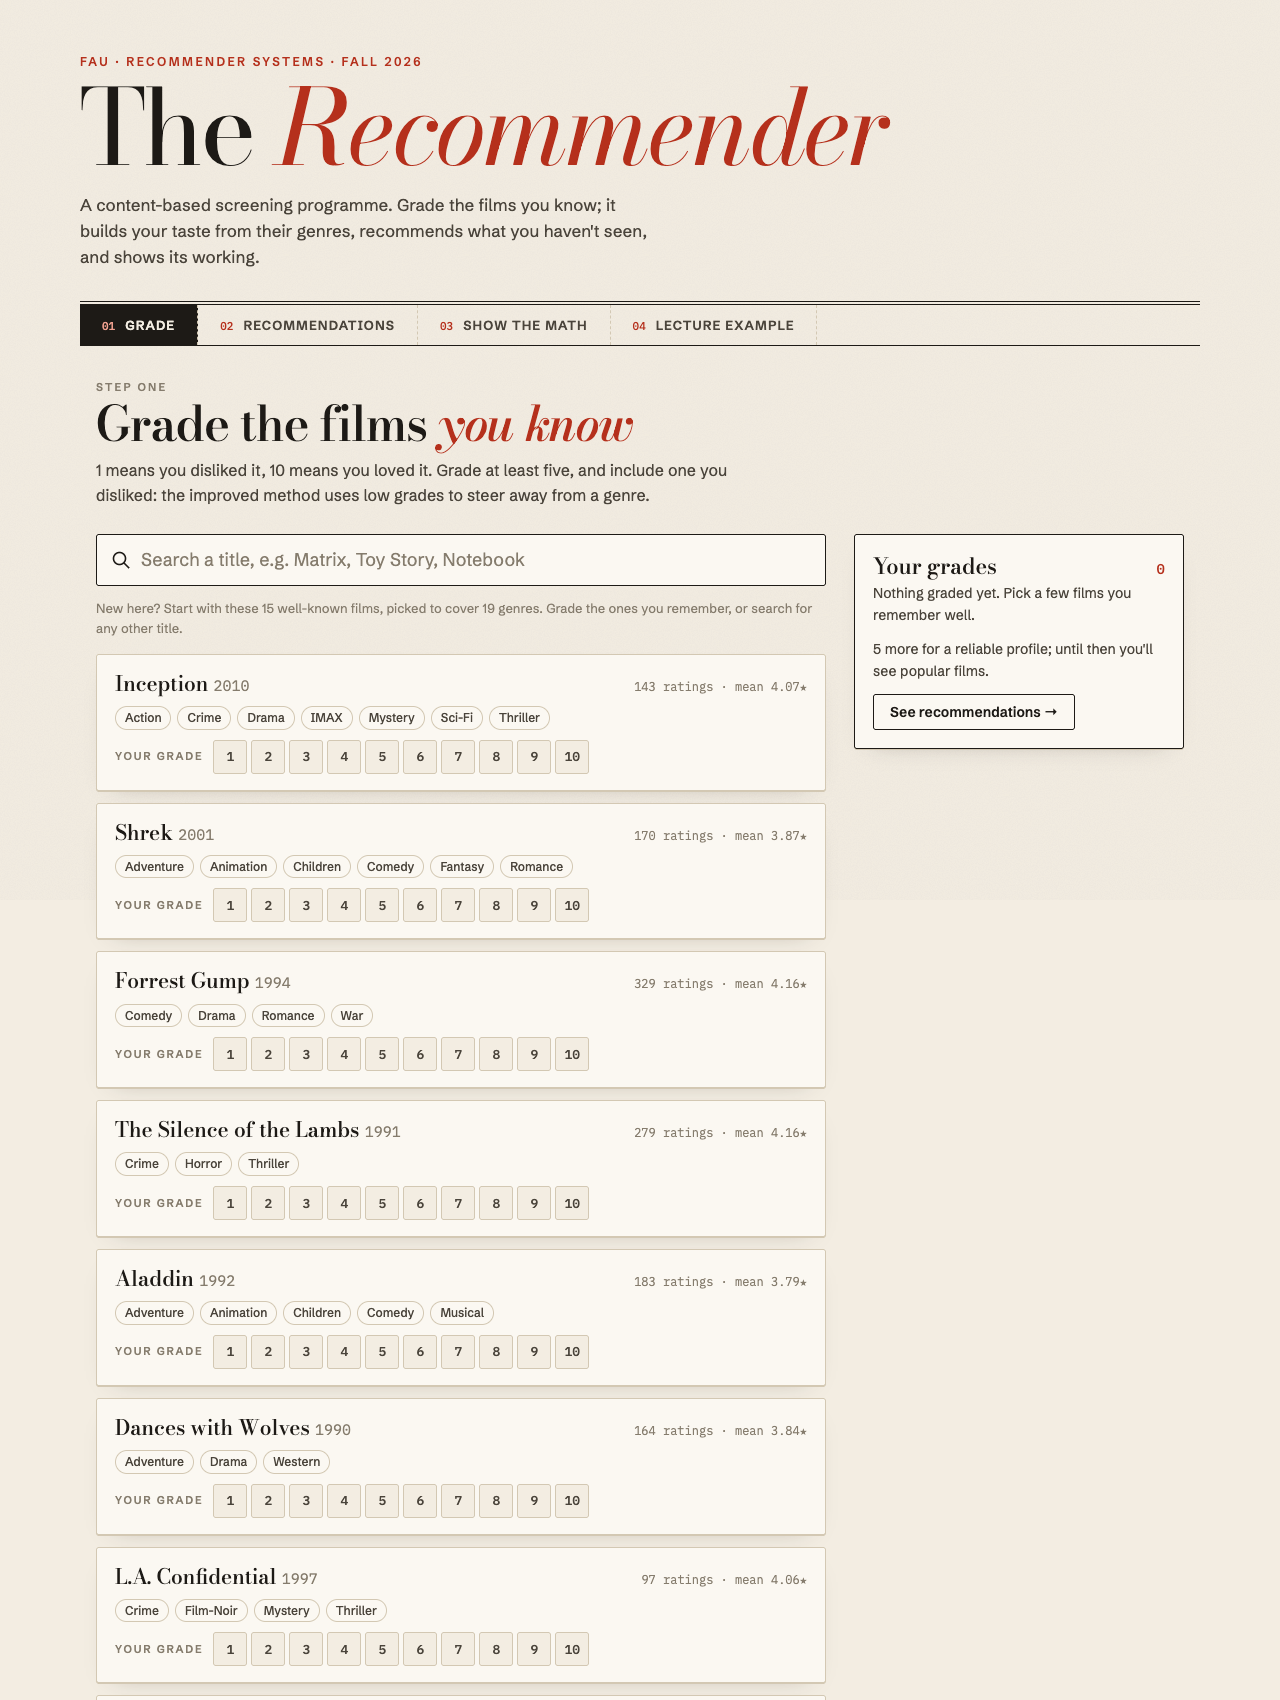
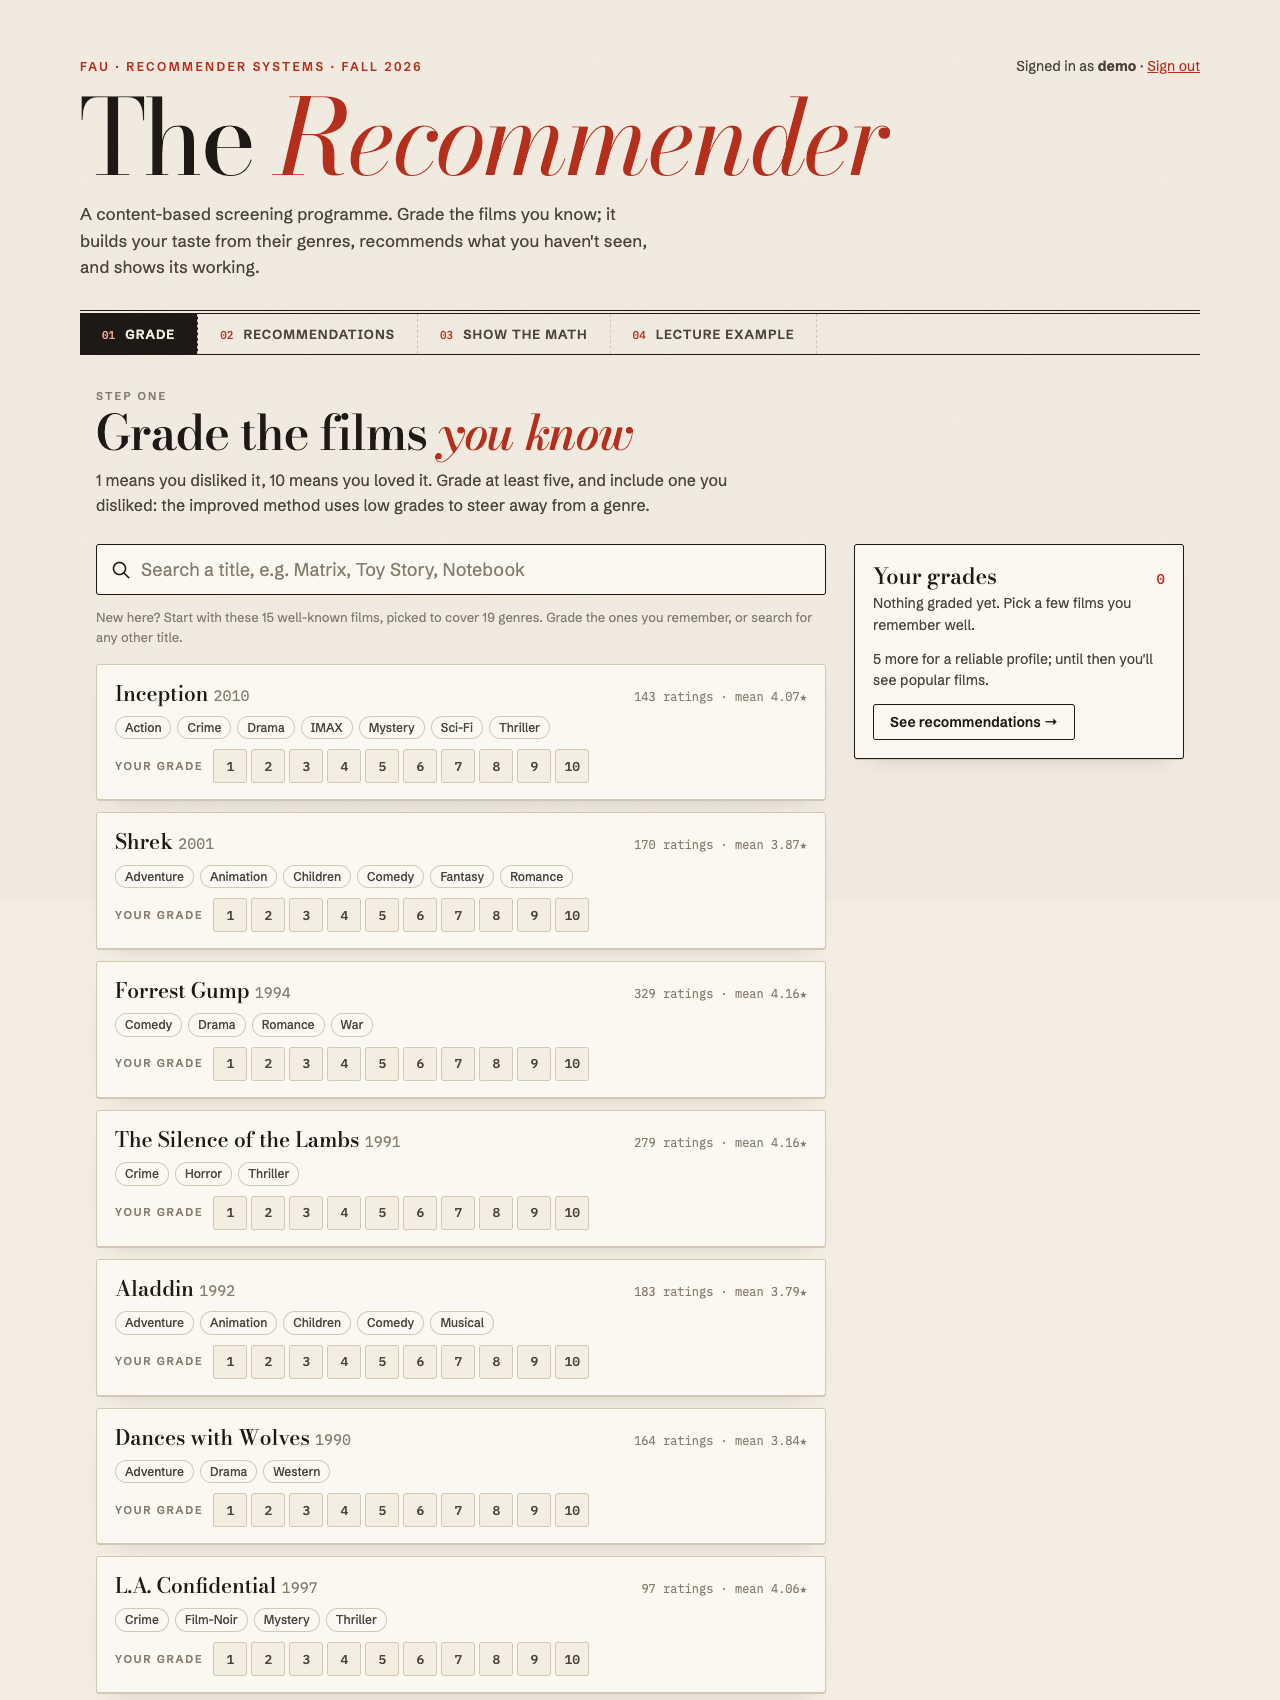
Add sign-in, registration and sign-out to the UI
login.html for signing in or creating an account, the signed-in user
and a sign-out link in the header, and a sign-in prompt in the personal
views (the lecture example stays public). The e2e script signs in
through the form (30 checks).

diff --git a/src/main/resources/static/login.html b/src/main/resources/static/login.html
@@ -1,0 +1,63 @@
+<!doctype html>
+<html lang="en">
+<head>
+	<meta charset="utf-8">
+	<meta name="viewport" content="width=device-width, initial-scale=1">
+	<title>Sign in · The Recommender</title>
+	<meta name="description" content="Sign in or create an account to keep your own grades and recommendations.">
+	<link rel="preconnect" href="https://fonts.googleapis.com">
+	<link rel="preconnect" href="https://fonts.gstatic.com" crossorigin>
+	<link rel="stylesheet" href="https://fonts.googleapis.com/css2?family=Bodoni+Moda:ital,opsz,wght@0,6..96,400..800;1,6..96,400..800&family=IBM+Plex+Mono:wght@400;500&family=Schibsted+Grotesk:wght@400;500;600;700&display=swap">
+	<link rel="stylesheet" href="css/app.css">
+	<script type="module" src="js/login.js"></script>
+</head>
+<body>
+	<header class="masthead masthead--compact">
+		<div class="masthead__inner">
+			<p class="masthead__kicker">FAU · Recommender Systems · Fall 2026</p>
+			<h1 class="masthead__title"><a href="/">The <em>Recommender</em></a></h1>
+		</div>
+	</header>
+
+	<main class="view" id="view">
+		<section class="view-head">
+			<p class="eyebrow">Your seat</p>
+			<h2 class="view-title">Sign in to keep <em>your grades</em></h2>
+			<p class="lede">Grades and recommendations are personal, so they need an account; creating one takes a few
+				seconds. The lecture example works without one.</p>
+		</section>
+
+		<div class="auth">
+			<form class="auth__card" id="sign-in" novalidate>
+				<h3 class="auth__title">Sign in</h3>
+				<label class="field"><span class="field__label">Username</span>
+					<input class="input" name="username" autocomplete="username" required></label>
+				<label class="field"><span class="field__label">Password</span>
+					<input class="input" name="password" type="password" autocomplete="current-password" required></label>
+				<p class="auth__error" role="alert" hidden></p>
+				<button class="button button--primary" type="submit">Sign in</button>
+				<p class="auth__hint">Trying a local copy? Sign in as <b>demo</b> / <b>demo</b>.</p>
+			</form>
+
+			<form class="auth__card" id="register" novalidate>
+				<h3 class="auth__title">New here? Create an account</h3>
+				<label class="field"><span class="field__label">Username</span>
+					<input class="input" name="username" autocomplete="username" required
+						placeholder="3–30 letters, digits, . _ -"></label>
+				<label class="field"><span class="field__label">Password</span>
+					<input class="input" name="password" type="password" autocomplete="new-password" required
+						placeholder="at least 8 characters"></label>
+				<p class="auth__error" role="alert" hidden></p>
+				<button class="button" type="submit">Create account and sign in</button>
+			</form>
+		</div>
+
+		<p class="note"><a href="/#example">Or see the lecture example without signing in →</a></p>
+	</main>
+
+	<footer class="colophon">
+		<p>Passwords are stored only as BCrypt hashes. Data: MovieLens <i>ml-latest-small</i>, F. Maxwell Harper &amp;
+			Joseph A. Konstan (2015).</p>
+	</footer>
+</body>
+</html>

diff --git a/src/main/resources/static/js/main.js b/src/main/resources/static/js/main.js
@@ -6,7 +6,7 @@ import { renderGrade } from './grade.js';
 import { renderMath } from './math.js';
 import { renderRecommendations } from './recommendations.js';
 import { store } from './store.js';
-import { showError } from './ui.js';
+import { empty, h, showError } from './ui.js';
 
 const views = {
 	grade: renderGrade,
@@ -39,8 +39,50 @@ function route() {
 	}
 	const main = document.getElementById('view');
 	main.replaceChildren();
-	cleanup = views[name](main) || null;
+	cleanup = null;
+	// Grades are personal; only the lecture example works signed out.
+	store.ready.catch(() => {}).then(() => {
+		if (location.hash.slice(1) !== name && !(name === 'grade' && !views[location.hash.slice(1)])) {
+			return;
+		}
+		if (!store.user && name !== 'example') {
+			main.replaceChildren(signInPrompt(name));
+			return;
+		}
+		cleanup = views[name](main) || null;
+	});
 	main.focus({ preventScroll: true });
+}
+
+function signInPrompt(name) {
+	return h('div', { class: 'view-head' },
+		h('p', { class: 'eyebrow', text: 'Signed out' }),
+		empty('Sign in to grade films', 'Your grades and recommendations are kept per account. Sign in, or create '
+			+ 'one in a few seconds. The lecture example works without signing in.',
+		h('div', { class: 'after', style: { justifyContent: 'center' } },
+			h('a', { class: 'button button--primary', href: `/login.html?next=${encodeURIComponent(`/#${name}`)}` }, 'Sign in'),
+			h('a', { class: 'button', href: '#example' }, 'See the lecture example'))));
+}
+
+function renderSession() {
+	const box = document.getElementById('session');
+	if (!box) {
+		return;
+	}
+	box.replaceChildren(store.user
+		? h('span', {}, 'Signed in as ', h('b', { text: store.user }), ' · ',
+			h('button', { class: 'linklike', type: 'button', onclick: signOut, text: 'Sign out' }))
+		: h('a', { href: '/login.html', text: 'Sign in' }));
+}
+
+async function signOut() {
+	try {
+		await api.signOut();
+	} catch (error) {
+		showError(error, 'Could not sign out');
+		return;
+	}
+	location.href = '/login.html';
 }
 
 function updateBadge() {
@@ -50,6 +92,7 @@ function updateBadge() {
 }
 
 store.subscribe(updateBadge);
+store.subscribe(renderSession);
 window.addEventListener('hashchange', route);
 store.load().catch((error) => showError(error, 'Could not load your grades'));
 route();

diff --git a/src/main/resources/static/js/api.js b/src/main/resources/static/js/api.js
@@ -10,14 +10,16 @@ export class ApiError extends Error {
 }
 
 function xsrfToken() {
-	// Ticket 08 adds Spring Security with a cookie-based CSRF token; sending it now costs nothing.
+	// Spring Security sets this cookie on every response; writes must echo it back as the X-XSRF-TOKEN header.
 	const cookie = document.cookie.split('; ').find((c) => c.startsWith('XSRF-TOKEN='));
 	return cookie ? decodeURIComponent(cookie.slice('XSRF-TOKEN='.length)) : null;
 }
 
-async function request(path, { method = 'GET', body } = {}) {
+async function request(path, { method = 'GET', body, form } = {}) {
 	const headers = { Accept: 'application/json' };
-	if (body !== undefined) {
+	if (form !== undefined) {
+		headers['Content-Type'] = 'application/x-www-form-urlencoded';
+	} else if (body !== undefined) {
 		headers['Content-Type'] = 'application/json';
 	}
 	const token = xsrfToken();
@@ -28,7 +30,7 @@ async function request(path, { method = 'GET', body } = {}) {
 		method,
 		headers,
 		credentials: 'same-origin',
-		body: body === undefined ? undefined : JSON.stringify(body),
+		body: form !== undefined ? new URLSearchParams(form) : body === undefined ? undefined : JSON.stringify(body),
 	});
 	if (response.status === 204) {
 		return null;
@@ -54,4 +56,8 @@ export const api = {
 	starterSet: (size = 15) => request(`/api/onboarding/starter-set?${query({ size })}`),
 	math: (method, k) => request(`/api/me/recommendations/math?${query({ method, k })}`),
 	lectureExample: () => request('/api/demo/lecture-example'),
+	me: () => request('/api/me'),
+	register: (username, password) => request('/api/auth/register', { method: 'POST', body: { username, password } }),
+	signIn: (username, password) => request('/login', { method: 'POST', form: { username, password } }),
+	signOut: () => request('/logout', { method: 'POST' }),
 };

diff --git a/src/main/resources/static/js/login.js b/src/main/resources/static/js/login.js
@@ -1,0 +1,45 @@
+// Sign-in and registration page. Spring Security's POST /login takes a form; registration is JSON.
+
+import { ApiError, api } from './api.js';
+
+const next = new URLSearchParams(location.search).get('next') || '/#grade';
+
+function showError(form, message) {
+	const box = form.querySelector('.auth__error');
+	box.textContent = message;
+	box.hidden = false;
+}
+
+async function signIn(username, password) {
+	await api.signIn(username, password);
+	// Only same-site paths, never an arbitrary URL from the query string.
+	location.href = next.startsWith('/') && !next.startsWith('//') ? next : '/#grade';
+}
+
+document.getElementById('sign-in').addEventListener('submit', async (event) => {
+	event.preventDefault();
+	const form = event.currentTarget;
+	const data = new FormData(form);
+	try {
+		await signIn(String(data.get('username')).trim(), String(data.get('password')));
+	} catch (error) {
+		showError(form, error instanceof ApiError ? error.message : 'Could not reach the server.');
+	}
+});
+
+document.getElementById('register').addEventListener('submit', async (event) => {
+	event.preventDefault();
+	const form = event.currentTarget;
+	const data = new FormData(form);
+	const username = String(data.get('username')).trim();
+	const password = String(data.get('password'));
+	try {
+		await api.register(username, password);
+		await signIn(username, password);
+	} catch (error) {
+		showError(form, error instanceof ApiError ? error.message : 'Could not reach the server.');
+	}
+});
+
+// Any request makes the server set the XSRF-TOKEN cookie that the sign-in POST must echo back.
+api.genres().catch(() => {});

diff --git a/src/main/resources/static/css/app.css b/src/main/resources/static/css/app.css
@@ -87,6 +87,86 @@ a {
 	text-transform: uppercase;
 }
 
+.masthead__top {
+	display: flex;
+	flex-wrap: wrap;
+	align-items: baseline;
+	justify-content: space-between;
+	gap: 8px 24px;
+}
+
+.session {
+	margin: 0 0 14px;
+	color: var(--ink-soft);
+	font-size: 14px;
+}
+
+.linklike {
+	padding: 0;
+	border: 0;
+	background: none;
+	color: var(--red);
+	font: inherit;
+	text-decoration: underline;
+	cursor: pointer;
+}
+
+.masthead--compact .masthead__title {
+	font-size: clamp(40px, 6vw, 64px);
+}
+
+.masthead--compact {
+	padding-bottom: 8px;
+	border-bottom: 4px double var(--ink);
+}
+
+.auth {
+	display: grid;
+	grid-template-columns: repeat(auto-fit, minmax(min(100%, 320px), 1fr));
+	gap: 20px;
+	max-width: 820px;
+}
+
+.auth__card {
+	display: grid;
+	gap: 14px;
+	align-content: start;
+	padding: 22px;
+	border: 1px solid var(--ink);
+	border-radius: var(--radius);
+	background: var(--card);
+	box-shadow: var(--shadow);
+}
+
+.auth__title {
+	margin: 0;
+	font: 500 22px/1.2 var(--display);
+}
+
+.auth__error {
+	margin: 0;
+	padding: 8px 12px;
+	border-left: 3px solid var(--red);
+	background: var(--red-wash);
+	font-size: 14px;
+}
+
+.auth__hint {
+	margin: 0;
+	color: var(--muted);
+	font-size: 13px;
+}
+
+.input {
+	width: 100%;
+	padding: 11px 12px;
+	border: 1px solid var(--ink);
+	border-radius: var(--radius);
+	background: var(--paper);
+	color: var(--ink);
+	font: 400 16px/1.2 var(--body);
+}
+
 .masthead__title {
 	margin: 0;
 	font: 400 clamp(46px, 9vw, 104px)/0.88 var(--display);

diff --git a/src/main/resources/static/js/store.js b/src/main/resources/static/js/store.js
@@ -17,14 +17,27 @@ export const store = {
 	/** movieId → { movieId, title, year, score, updatedAt } */
 	grades: new Map(),
 
+	/** The signed-in username, or null when signed out. */
+	user: null,
+
 	/** Settles once the first load has finished (or failed), so views can tell "no grades" from "not loaded yet". */
 	ready: null,
 
 	load() {
-		this.ready = api.grades().then((list) => {
-			this.grades = new Map(list.map((g) => [g.movieId, g]));
-			emit();
-		});
+		this.ready = api.me()
+			.then(async (me) => {
+				this.user = me.username;
+				const list = await api.grades();
+				this.grades = new Map(list.map((g) => [g.movieId, g]));
+			})
+			.catch((error) => {
+				if (error.status !== 401) {
+					throw error;
+				}
+				this.user = null;
+				this.grades = new Map();
+			})
+			.finally(emit);
 		return this.ready;
 	},
 

diff --git a/src/main/resources/static/index.html b/src/main/resources/static/index.html
@@ -14,7 +14,10 @@
 <body>
 	<header class="masthead">
 		<div class="masthead__inner">
-			<p class="masthead__kicker">FAU · Recommender Systems · Fall 2026</p>
+			<div class="masthead__top">
+				<p class="masthead__kicker">FAU · Recommender Systems · Fall 2026</p>
+				<p class="session" id="session" aria-live="polite"></p>
+			</div>
 			<h1 class="masthead__title"><a href="#grade">The <em>Recommender</em></a></h1>
 			<p class="masthead__sub">A content-based screening programme. Grade the films you know; it builds your taste
 				from their genres, recommends what you haven't seen, and shows its working.</p>

diff --git a/src/main/resources/static/js/grade.js b/src/main/resources/static/js/grade.js
@@ -170,7 +170,7 @@ export function renderGrade(root) {
 
 	const unsubscribe = store.subscribe(renderLedger);
 	renderLedger();
-	(store.ready ?? Promise.resolve()).finally(() => search('', 0));
+	(store.ready ?? Promise.resolve()).catch(() => {}).then(() => search('', 0));
 	return () => {
 		unsubscribe();
 		clearTimeout(timer);
